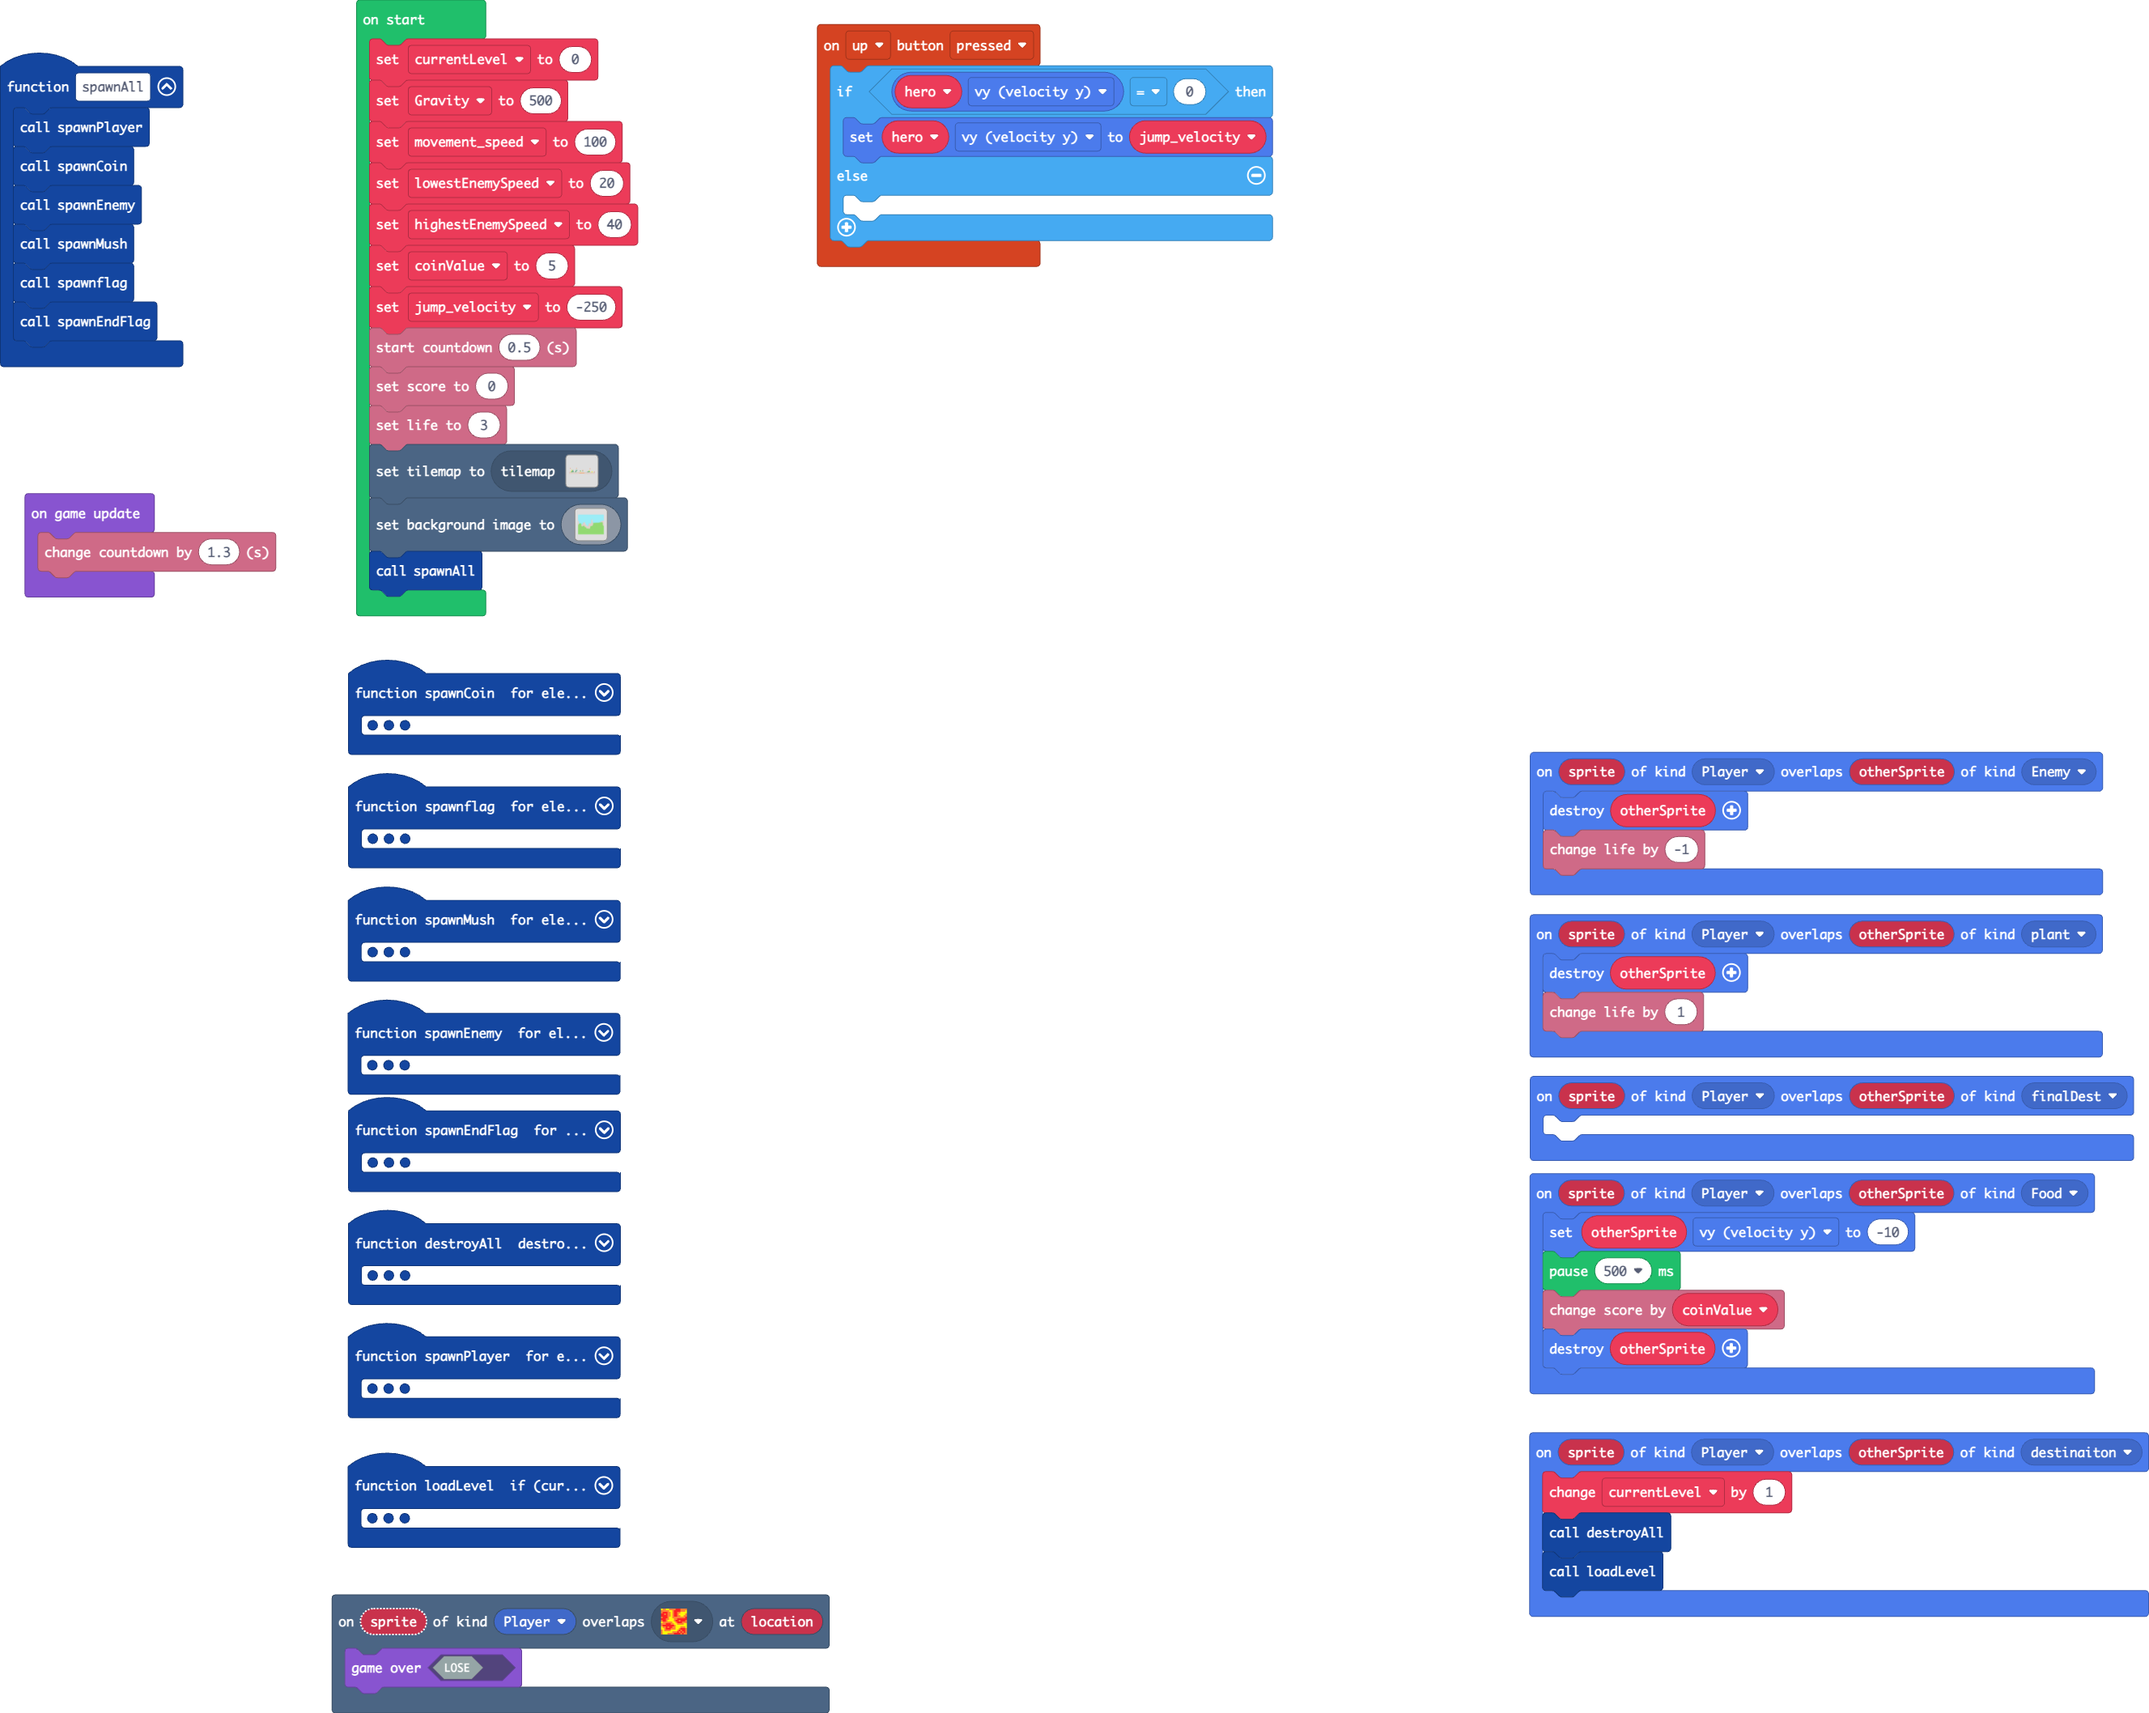
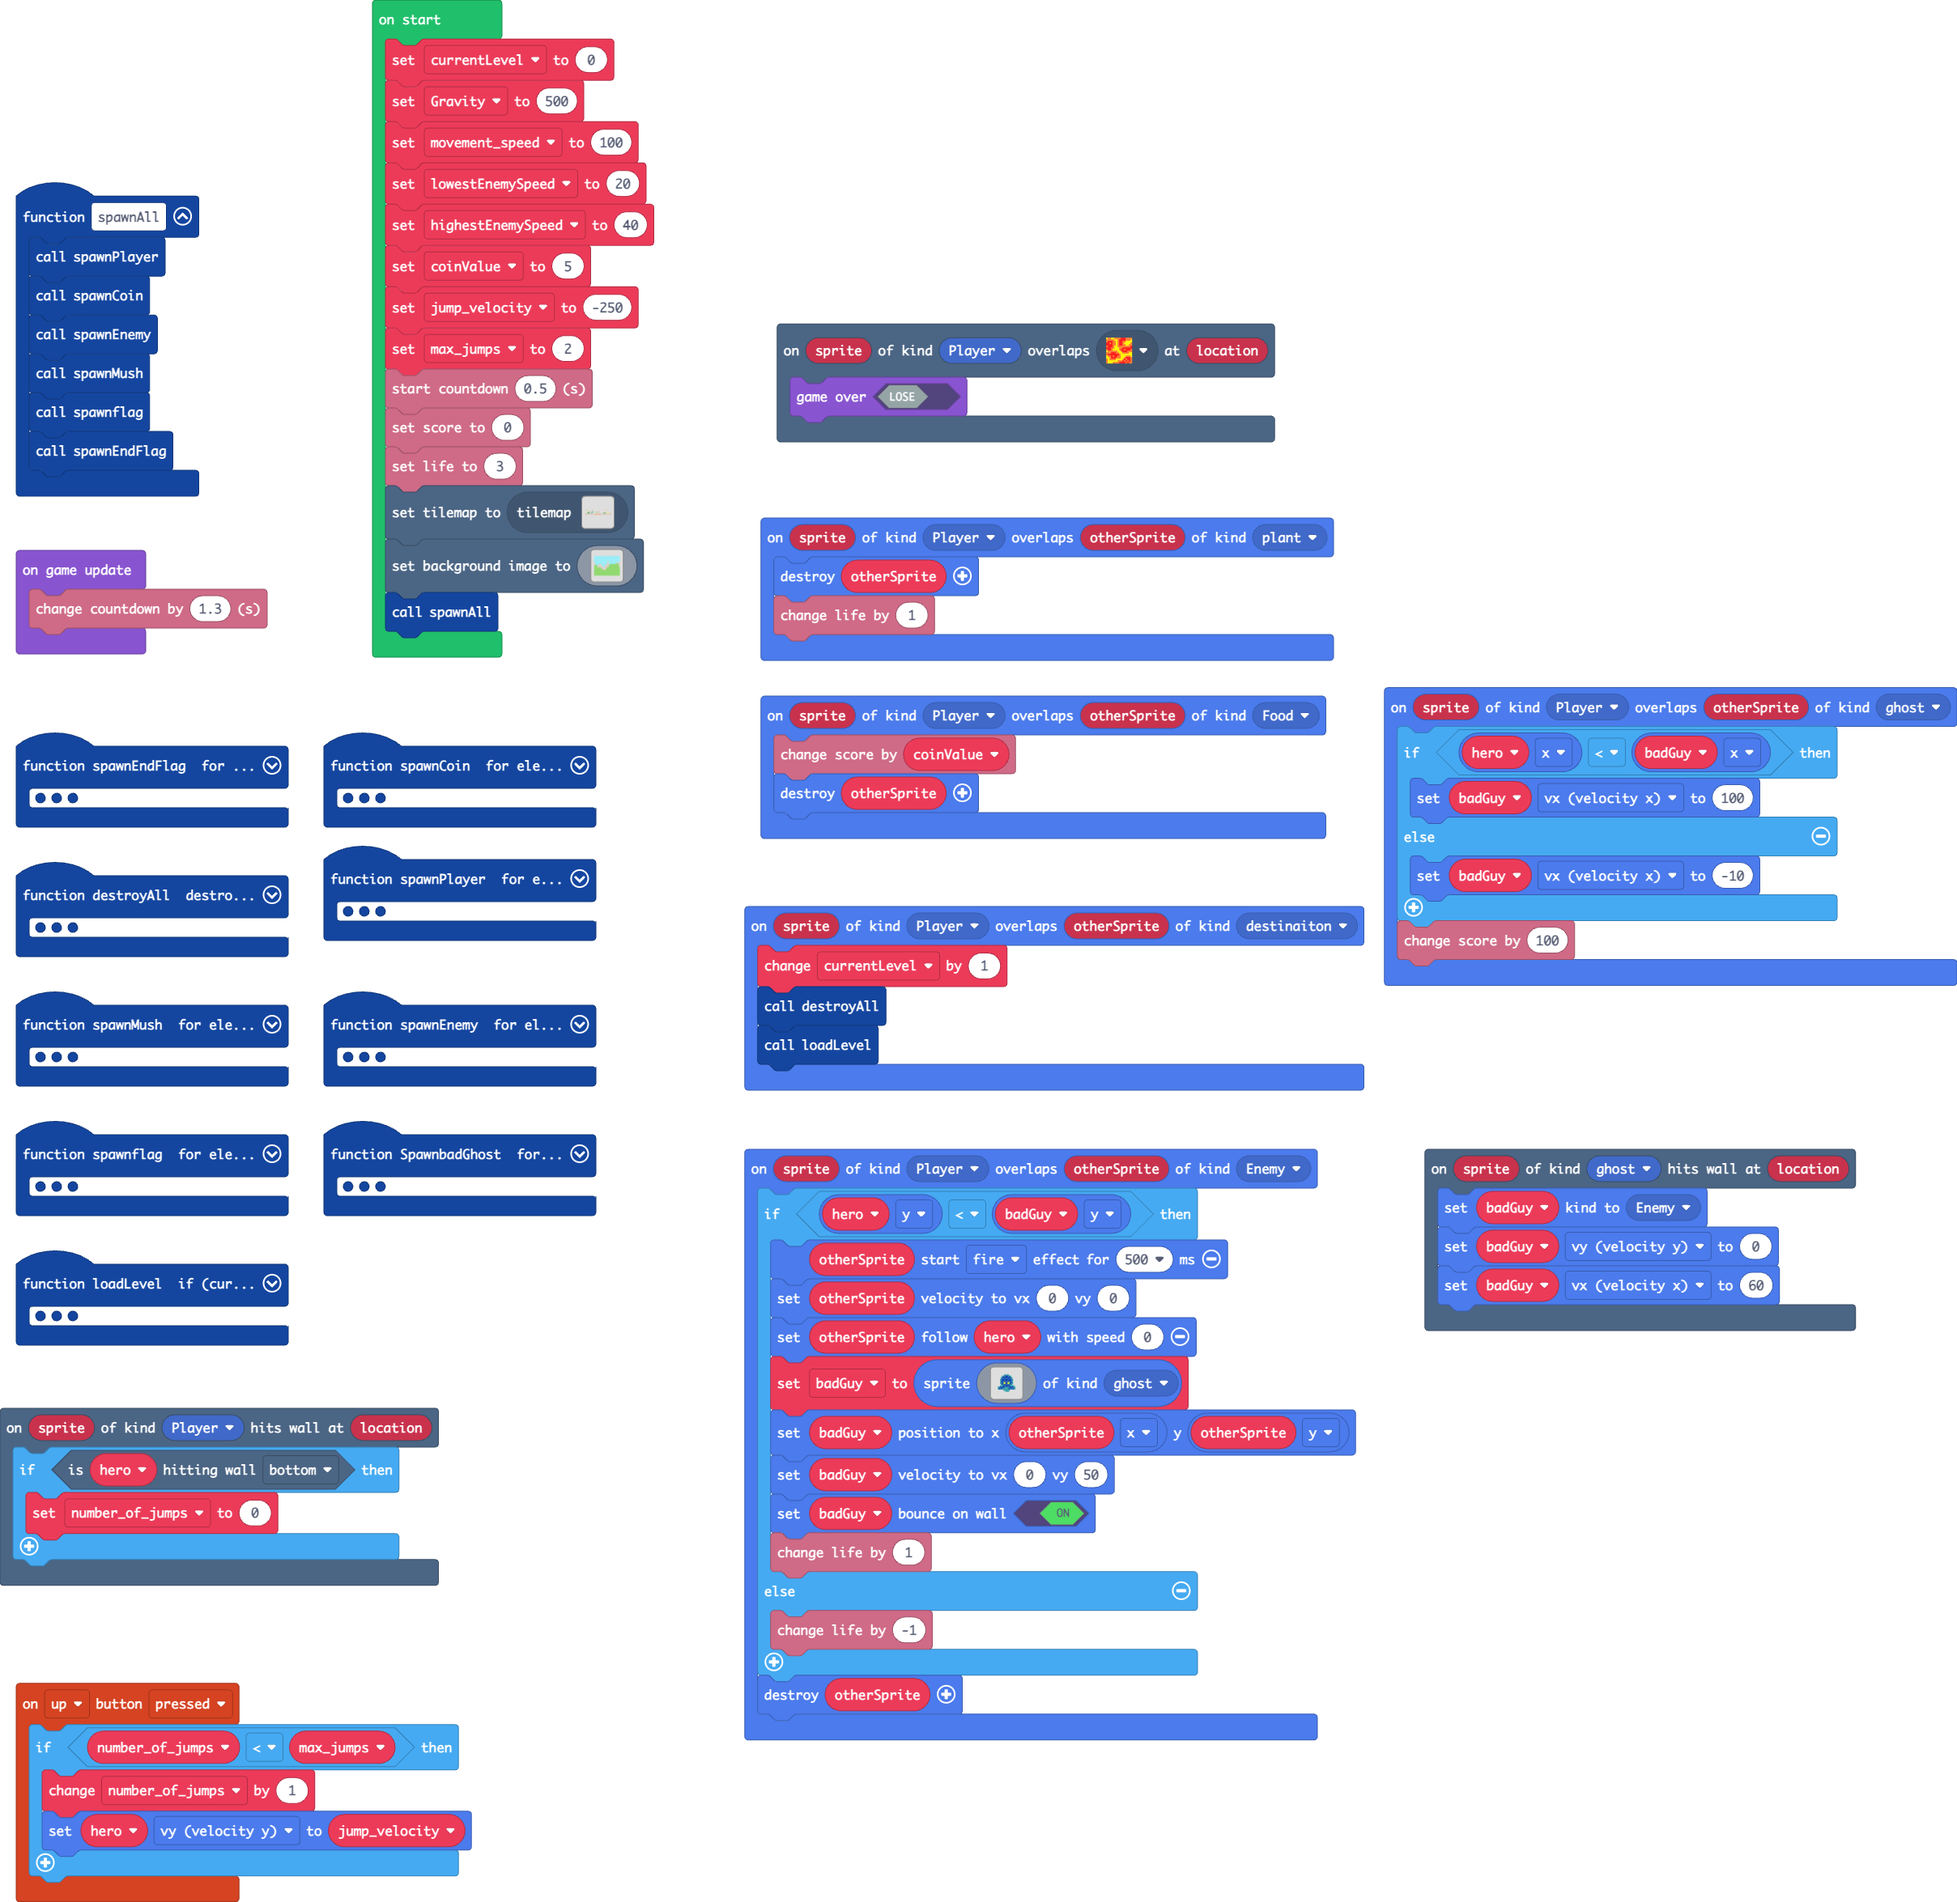
Update main.blocks, main.ts

diff --git a/main.ts b/main.ts
@@ -2,12 +2,17 @@ namespace SpriteKind {
     export const destinaiton = SpriteKind.create()
     export const plant = SpriteKind.create()
     export const finalDest = SpriteKind.create()
+    export const ghost = SpriteKind.create()
 }
+scene.onHitWall(SpriteKind.Player, function (sprite, location) {
+    if (hero.isHittingTile(CollisionDirection.Bottom)) {
+        number_of_jumps = 0
+    }
+})
 controller.up.onEvent(ControllerButtonEvent.Pressed, function () {
-    if (hero.vy == 0) {
+    if (number_of_jumps < max_jumps) {
+        number_of_jumps += 1
         hero.vy = jump_velocity
-    } else {
-    	
     }
 })
 function spawnAll () {
@@ -34,6 +39,14 @@ function spawnCoin () {
         tiles.setTileAt(value, assets.tile`transparency16`)
     }
 }
+sprites.onOverlap(SpriteKind.Player, SpriteKind.ghost, function (sprite, otherSprite) {
+    if (hero.x < badGuy.x) {
+        badGuy.vx = 100
+    } else {
+        badGuy.vx = -10
+    }
+    info.changeScoreBy(100)
+})
 function spawnMush () {
     for (let value of tiles.getTilesByType(assets.tile`myTile2`)) {
         mush = sprites.create(img`
@@ -58,9 +71,37 @@ function spawnMush () {
         tiles.setTileAt(value, assets.tile`transparency16`)
     }
 }
-sprites.onOverlap(SpriteKind.Player, SpriteKind.finalDest, function (sprite, otherSprite) {
-	
-})
+function SpawnbadGhost () {
+    for (let value of tiles.getTilesByType(assets.tile`myTile`)) {
+        EnGhost = sprites.create(img`
+            ........................
+            ........................
+            ........................
+            ........................
+            ..........6666..........
+            ........66888866........
+            .......6888888886.......
+            .......6888888886.......
+            ......688888888886......
+            ......688888888886......
+            ......688888888886......
+            ......688758857886......
+            ......688758857886......
+            .......6888888886.......
+            ......6668888886666.....
+            ....6688888686888866....
+            ....6888886666888886....
+            ....6868666666868686....
+            .........666666.........
+            ...........666..........
+            ........................
+            ........................
+            ........................
+            ........................
+            `, SpriteKind.ghost)
+        tiles.setTileAt(value, assets.tile`transparency16`)
+    }
+}
 function loadLevel () {
     if (currentLevel == 0) {
     	
@@ -116,8 +157,6 @@ scene.onOverlapTile(SpriteKind.Player, sprites.dungeon.hazardLava1, function (sp
     game.gameOver(false)
 })
 sprites.onOverlap(SpriteKind.Player, SpriteKind.Food, function (sprite, otherSprite) {
-    otherSprite.vy = -10
-    pause(500)
     info.changeScoreBy(coinValue)
     sprites.destroy(otherSprite)
 })
@@ -193,6 +232,11 @@ function spawnPlayer () {
         tiles.setTileAt(value, assets.tile`transparency16`)
     }
 }
+scene.onHitWall(SpriteKind.ghost, function (sprite, location) {
+    badGuy.setKind(SpriteKind.Enemy)
+    badGuy.vy = 0
+    badGuy.vx = 60
+})
 function spawnEnemy () {
     for (let value of tiles.getTilesByType(assets.tile`myTile3`)) {
         badGuy = sprites.create(img`
@@ -233,20 +277,60 @@ sprites.onOverlap(SpriteKind.Player, SpriteKind.destinaiton, function (sprite, o
     loadLevel()
 })
 sprites.onOverlap(SpriteKind.Player, SpriteKind.Enemy, function (sprite, otherSprite) {
+    if (hero.y < badGuy.y) {
+        otherSprite.startEffect(effects.fire, 500)
+        otherSprite.setVelocity(0, 0)
+        otherSprite.follow(hero, 0)
+        badGuy = sprites.create(img`
+            ........................
+            ........................
+            ........................
+            ........................
+            ..........6666..........
+            ........66888866........
+            .......6888888886.......
+            .......6888888886.......
+            ......688888888886......
+            ......688888888886......
+            ......688888888886......
+            ......688758857886......
+            ......688758857886......
+            .......6888888886.......
+            ......6668888886666.....
+            ....6688888686888866....
+            ....6888886666888886....
+            ....6868666666868686....
+            .........666666.........
+            ...........666..........
+            ........................
+            ........................
+            ........................
+            ........................
+            `, SpriteKind.ghost)
+        badGuy.setPosition(otherSprite.x, otherSprite.y)
+        badGuy.setVelocity(0, 50)
+        badGuy.setBounceOnWall(true)
+        info.changeLifeBy(1)
+    } else {
+        info.changeLifeBy(-1)
+    }
     sprites.destroy(otherSprite)
-    info.changeLifeBy(-1)
 })
 function destroyAll () {
     sprites.destroyAllSpritesOfKind(SpriteKind.Enemy)
     sprites.destroyAllSpritesOfKind(SpriteKind.Food)
     sprites.destroyAllSpritesOfKind(SpriteKind.Player)
+    sprites.destroyAllSpritesOfKind(SpriteKind.ghost)
 }
-let badGuy: Sprite = null
 let flag: Sprite = null
 let endFlag: Sprite = null
+let EnGhost: Sprite = null
 let mush: Sprite = null
+let badGuy: Sprite = null
 let coin: Sprite = null
+let number_of_jumps = 0
 let hero: Sprite = null
+let max_jumps = 0
 let jump_velocity = 0
 let coinValue = 0
 let highestEnemySpeed = 0
@@ -261,6 +345,7 @@ lowestEnemySpeed = 20
 highestEnemySpeed = 40
 coinValue = 5
 jump_velocity = -250
+max_jumps = 2
 info.startCountdown(0.5)
 info.setScore(0)
 info.setLife(3)
